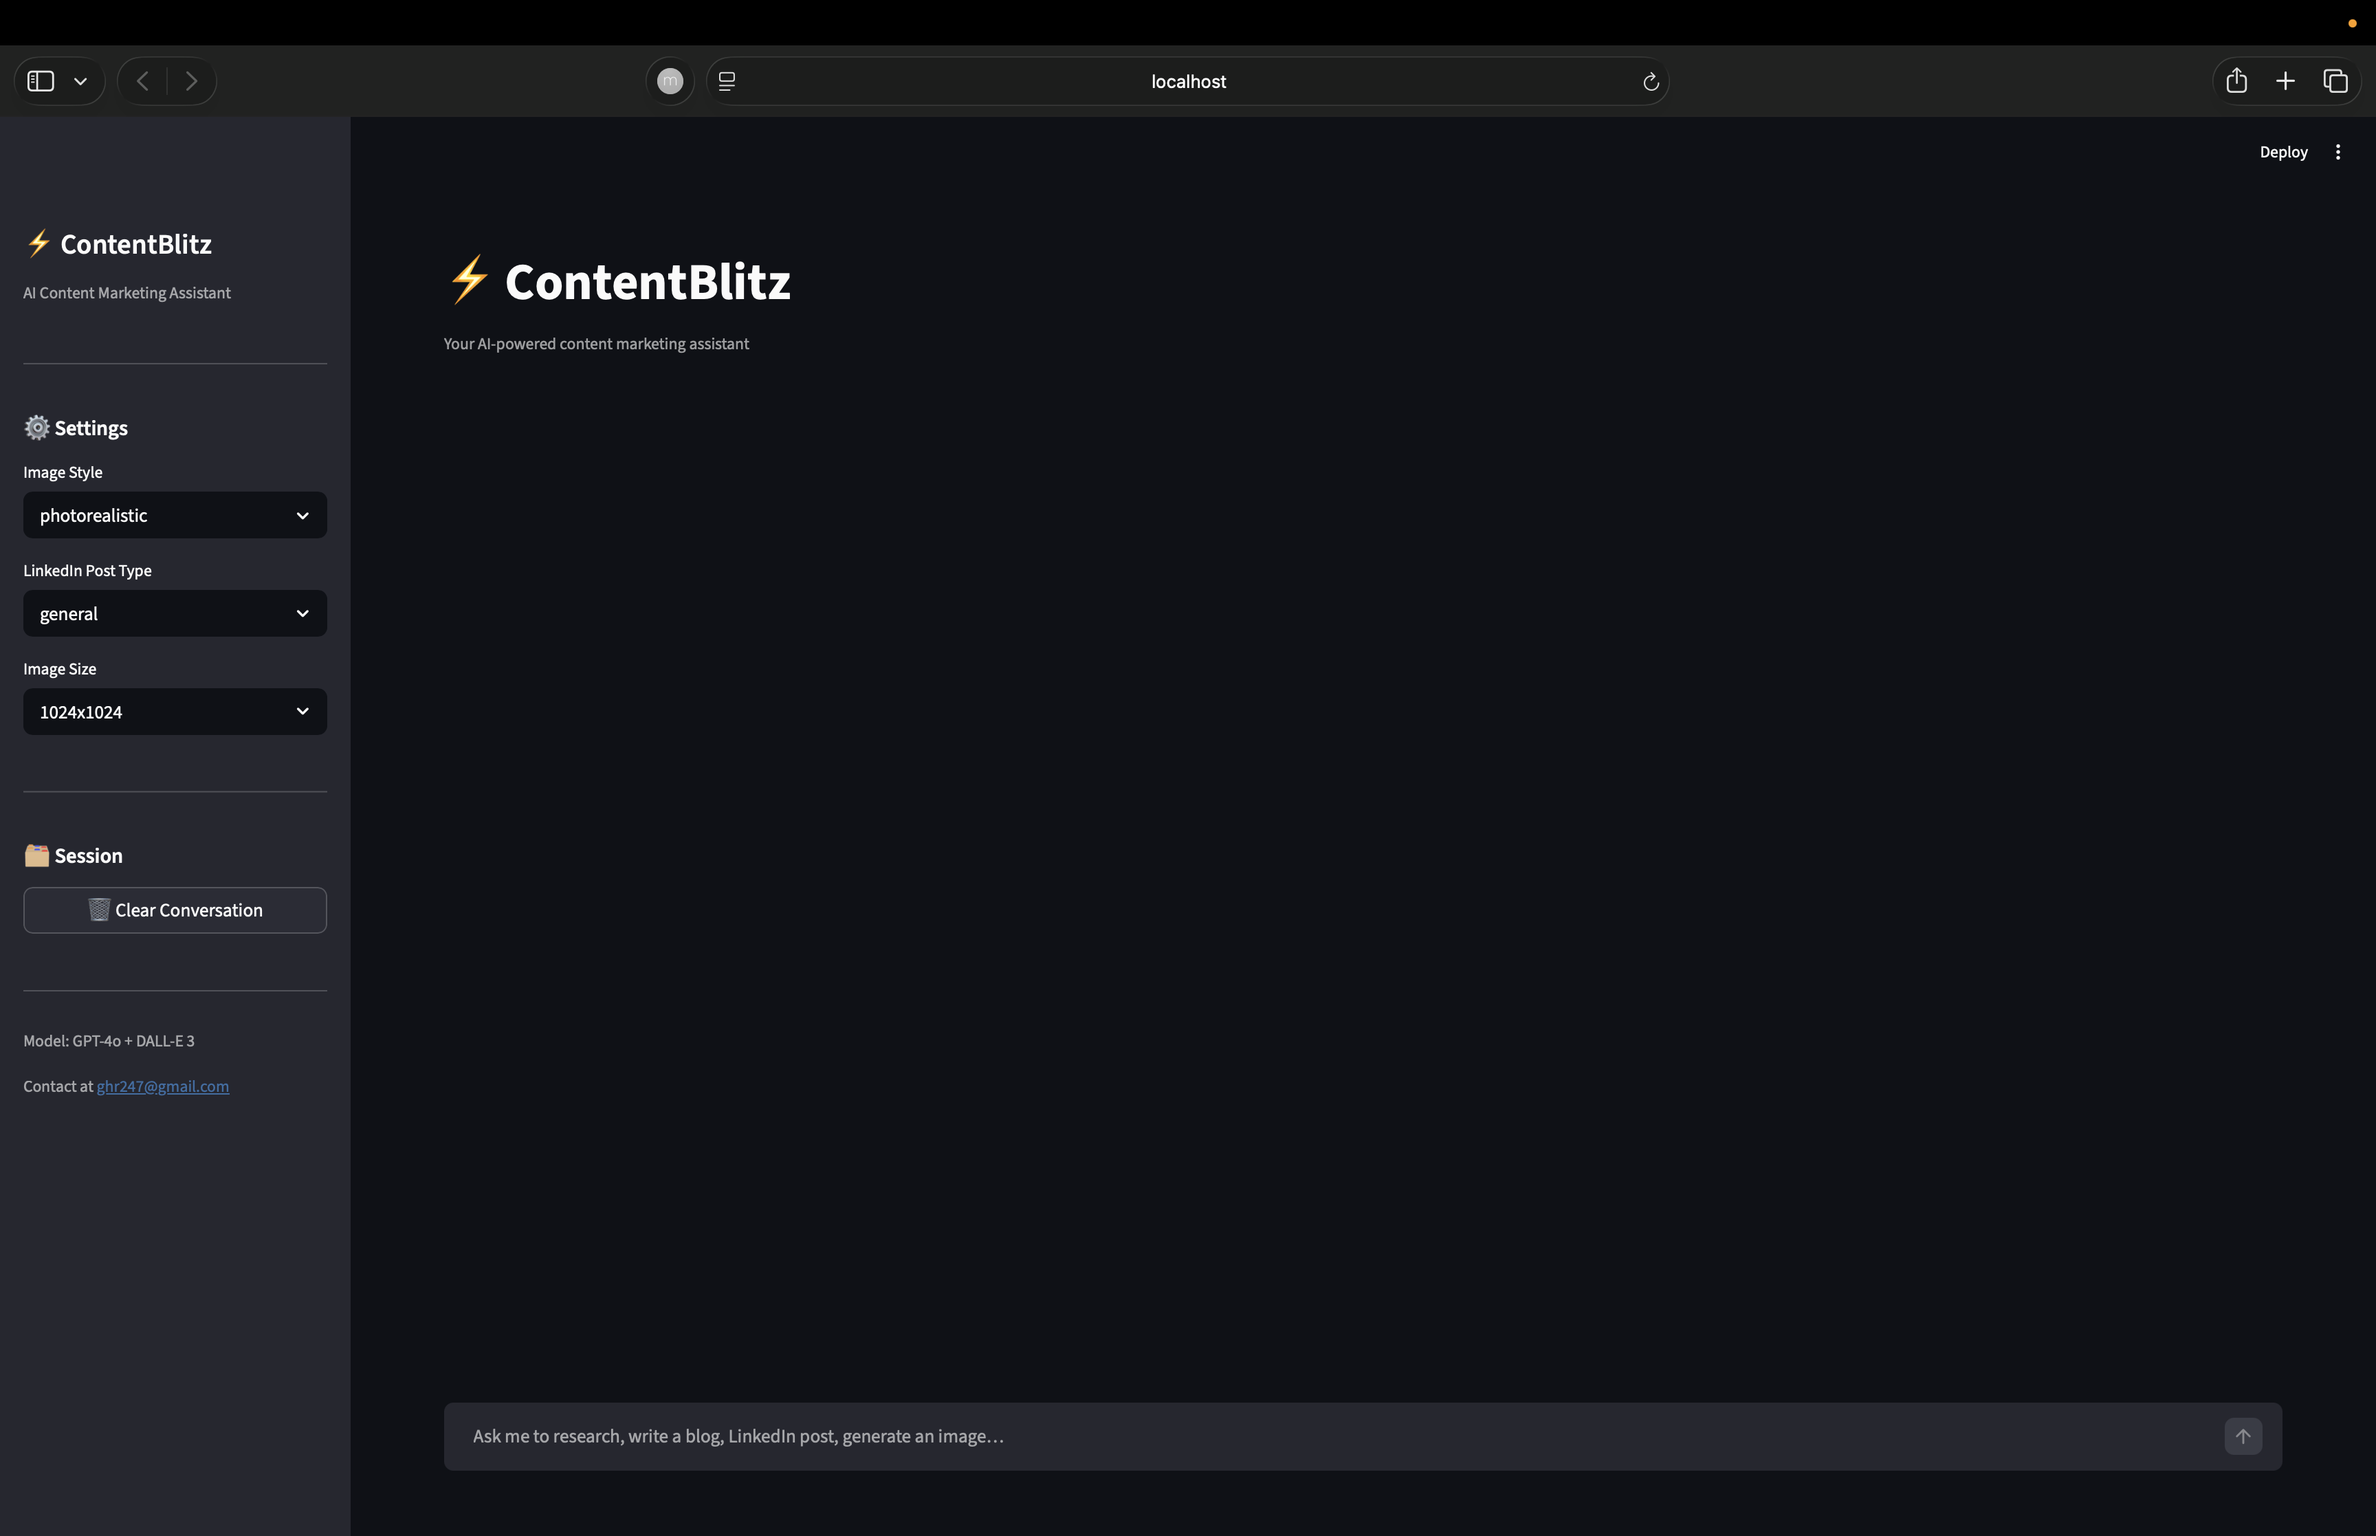
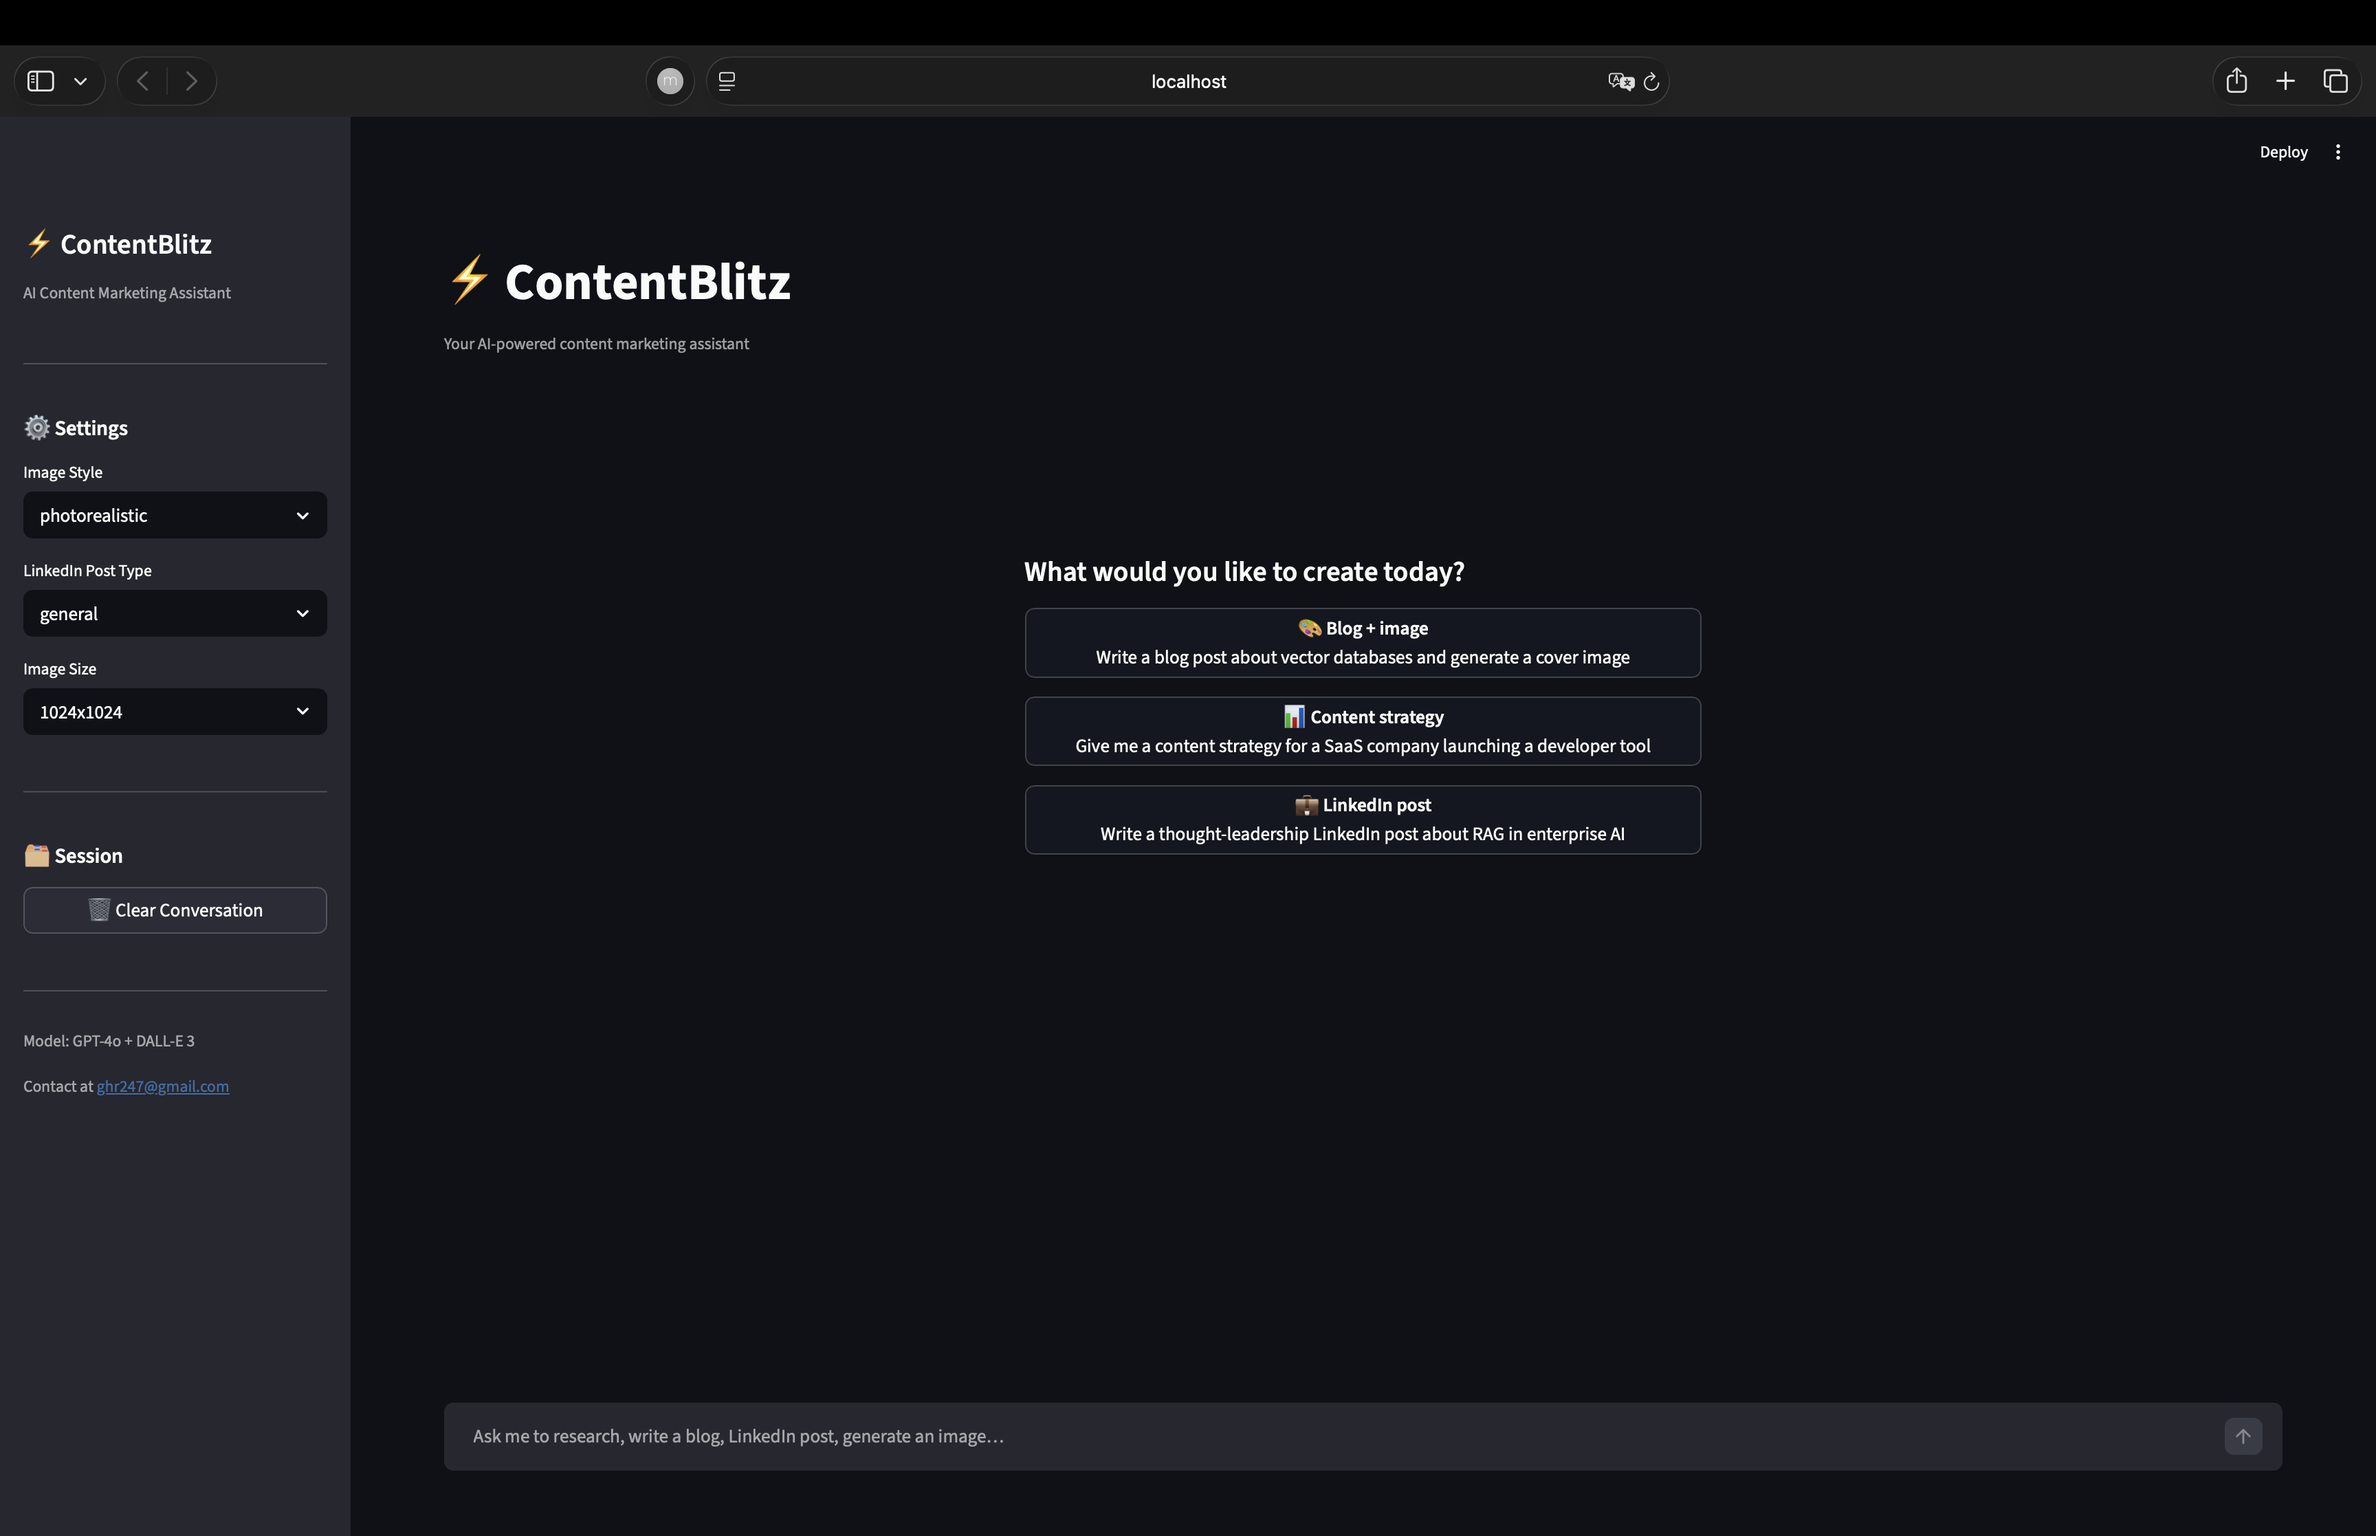
Implement Phase 8.7 - add zero-state suggestion cards in Streamlit UI

Changed region(s): [[0.4375, 0.3706, 0.6875, 0.556]]

diff --git a/src/web_app/streamlit_app.py b/src/web_app/streamlit_app.py
@@ -15,6 +15,7 @@ Features:
 """
 
 import json
+import random
 import sys
 import time
 from pathlib import Path
@@ -100,6 +101,7 @@ def _render_sidebar() -> dict:
             st.session_state.messages = []
             st.session_state.conversation_history = []
             st.session_state.last_result = None
+            st.session_state.pop("suggestion_samples", None)  # re-sample on next zero state
             reset_app()
             st.rerun()
 
@@ -356,7 +358,48 @@ def main() -> None:
 
     _render_chat_history()
 
-    if prompt := st.chat_input("Ask me to research, write a blog, LinkedIn post, generate an image…"):
+    # ── Zero-state suggestions ───────────────────────────────────────────────
+    # Shown only when the conversation is empty AND no prompt is pending.
+    # Samples are stored in session state so the button→text mapping is stable
+    # across reruns (avoids picking up the wrong suggestion on rerun).
+    _SUGGESTIONS = [
+        ("📝", "Blog post", "Write a blog post about the rise of AI agents in 2025"),
+        ("💼", "LinkedIn post", "Write a thought-leadership LinkedIn post about RAG in enterprise AI"),
+        ("🔍", "Research", "Research the latest trends in large language models"),
+        ("🎨", "Blog + image", "Write a blog post about vector databases and generate a cover image"),
+        ("🗺", "Content strategy", "Give me a content strategy for a SaaS company launching a developer tool"),
+        ("🔄", "LinkedIn + image", "Write a LinkedIn announcement post about an AI product launch and generate an image"),
+    ]
+
+    if not st.session_state.messages and "_pending_prompt" not in st.session_state:
+        # Sample once and freeze — cleared when the conversation is cleared
+        if "suggestion_samples" not in st.session_state:
+            st.session_state.suggestion_samples = random.sample(_SUGGESTIONS, 3)
+        shown = st.session_state.suggestion_samples
+
+        st.markdown('<div style="height:12vh"></div>', unsafe_allow_html=True)
+        _, center, _ = st.columns([1, 1.2, 1])
+        with center:
+            st.markdown("#### What would you like to create today?")
+            for i, (icon, label, suggestion_text) in enumerate(shown):
+                if st.button(
+                    f"{icon} **{label}**\n\n{suggestion_text}",
+                    use_container_width=True,
+                    key=f"suggestion_{i}",
+                ):
+                    st.session_state["_pending_prompt"] = suggestion_text
+                    st.rerun()
+        st.markdown('<div style="height:12vh"></div>', unsafe_allow_html=True)
+
+    # Apply a suggestion that was clicked in the previous run
+    if "_pending_prompt" in st.session_state:
+        prompt = st.session_state.pop("_pending_prompt")
+    elif prompt := st.chat_input("Ask me to research, write a blog, LinkedIn post, generate an image…"):
+        pass
+    else:
+        prompt = None
+
+    if prompt:
         # Show user message immediately
         st.session_state.messages.append({"role": "user", "content": prompt})
         with st.chat_message("user"):

diff --git a/README.md b/README.md
@@ -55,11 +55,11 @@ Off-topic requests are handled gracefully by a **FallbackAgent** that explains t
 - 📝 **Blog post generation** — SEO-optimised output with title, meta description, keyword list, and structured headings
 - 💼 **LinkedIn post generation** — Engagement-optimised content with hashtag strategy; supports post styles: `thought-leadership`, `announcement`, `story`, `listicle`, `general`
 - 🔍 **Deep web research** — Multi-query SERP search with requirement-aware synthesis; results grounded in real sources
-- 🧩 **Content strategy** — Structured strategy output for a given topic or campaign goal
+- 🗺 **Content strategy** — Structured strategy output for a given topic or campaign goal
 - 🎨 **AI image generation** — DALL-E 3 integration with configurable style and size
 - 🔗 **Combined intents** — Request blog + image or LinkedIn + image in a single prompt; the agent pipeline chains automatically
 - 🔄 **Multi-turn refinement** — Follow up with "make it shorter", "add more statistics", or "change the tone" and the relevant agent updates its prior output
-- 📈 **Automatic LLM evaluation** — Every response is scored in the background using DeepEval GEval (Relevance, Coherence, SEO Quality, Engagement Quality, Source Quality). Scores appear in the UI without blocking the response
+- 📊 **Automatic LLM evaluation** — Every response is scored in the background using DeepEval GEval (Relevance, Coherence, SEO Quality, Engagement Quality, Source Quality). Scores appear in the UI without blocking the response
 - 🚧 **Off-topic fallback** — Unrecognised requests are gracefully declined with an explanation
 
 ---

diff --git a/tasks.md b/tasks.md
@@ -149,6 +149,7 @@ All agents extend `BaseAgent` and implement the `run(state) -> state` contract. 
 - [x] **8.4** Add sidebar controls — image style, LinkedIn post type, image size selectors; clear conversation button
 - [x] **8.5** Handle loading states — spinner during agent workflow execution
 - [x] **8.6** Add export/download buttons — download generated content as markdown or copy to clipboard
+- [x] **8.7** *(Improvement)* Add zero-state suggestion cards — when conversation is empty, show 3 randomly sampled prompt suggestions centered vertically and horizontally on the page; clicking a card submits the prompt via `st.session_state["_pending_prompt"]` + `st.rerun()`; cards disappear once the first message is sent
 
 ---
 
